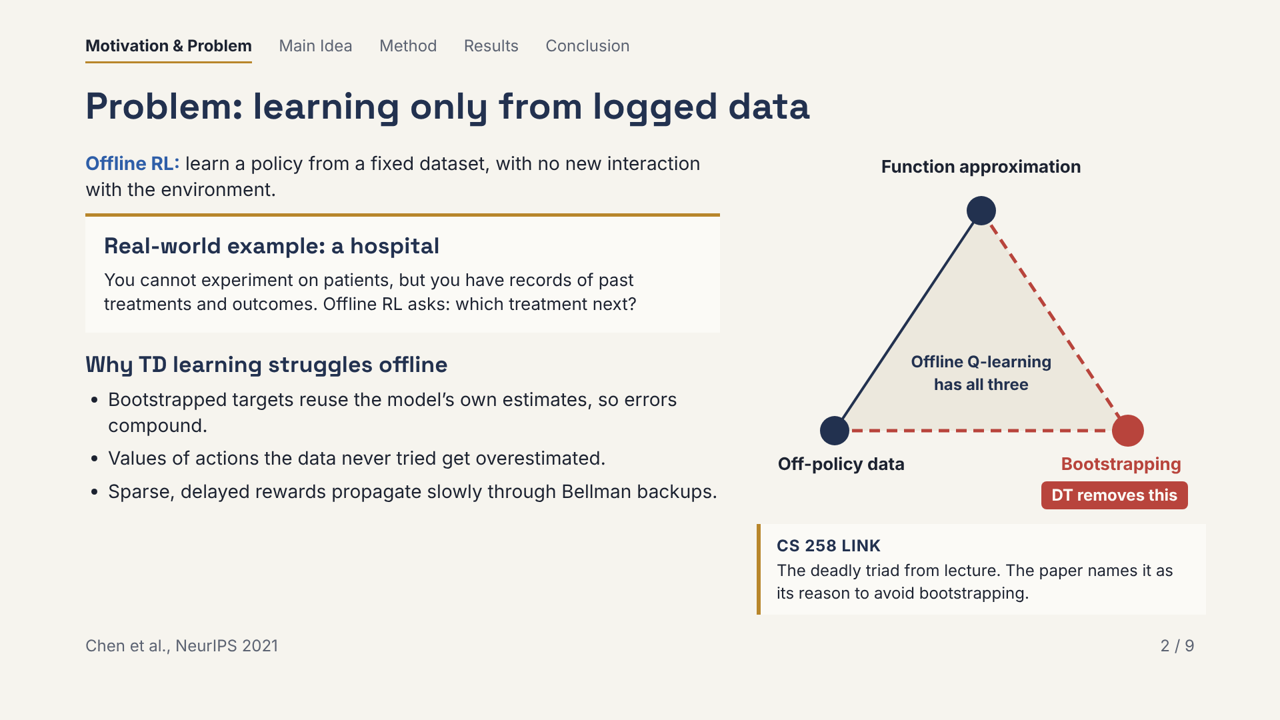
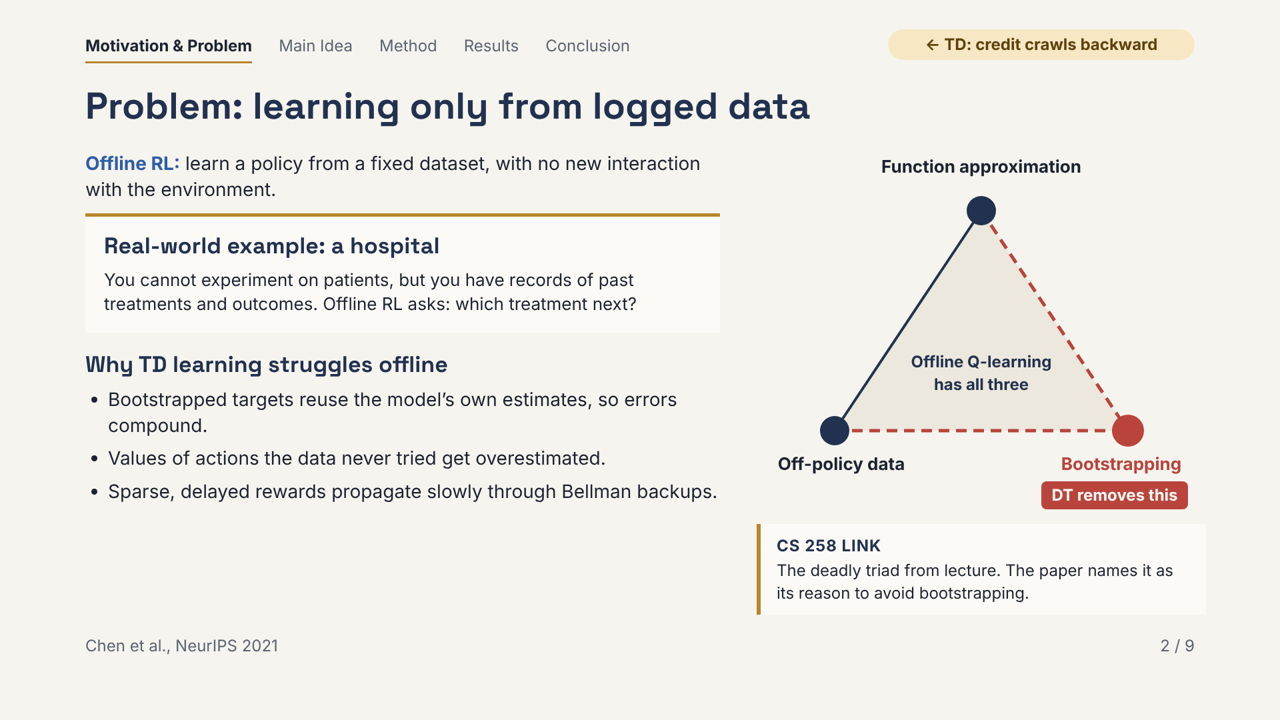
Add backward/forward thread, lineage backup slide, BACKGROUND.md; refresh screenshots

Changed region(s): [[0.6875, 0.0306, 0.9375, 0.0917]]

diff --git a/deck/slides/lineage.html b/deck/slides/lineage.html
@@ -1,0 +1,28 @@
+<section id="lineage" data-transition="fade">
+<div class="prog"><p class="st">Motivation &amp; Problem</p><p class="st">Main Idea</p><p class="st">Method</p><p class="st">Results</p><p class="st">Conclusion</p><p class="st on">Backup: Lineage</p></div>
+<h2 class="rise">Lineage: looking back, looking forward</h2>
+<div class="lin">
+<div class="lcol">
+<p class="lhead rise d1">← Looking back</p>
+<p class="li rise d6"><b>1989 ALVINN:</b> behavior cloning, imitate logged actions</p>
+<p class="li rise d5"><b>2017 Hindsight Experience Replay:</b> relabel data with what was actually achieved</p>
+<p class="li rise d4"><b>2017–20 Transformer, GPT:</b> causal next-token prediction, prompting</p>
+<p class="li rise d3"><b>2019 Upside-Down RL, Reward-Conditioned Policies:</b> command a policy with a desired return</p>
+<p class="li rise d2"><b>2019–20 BCQ, BEAR, CQL:</b> offline TD with constraints or pessimism</p>
+</div>
+<div class="hub pop d1">
+<p class="a">Decision Transformer</p>
+<p class="b">NeurIPS 2021</p>
+</div>
+<div class="lcol">
+<p class="lhead rise d1" style="text-align:right;">Looking forward →</p>
+<p class="li f rise d2"><b>2021 Trajectory Transformer:</b> concurrent; models rewards too, plans with beam search</p>
+<p class="li f rise d3"><b>2021 RvS:</b> a tuned MLP with return conditioning often matches DT</p>
+<p class="li f rise d4"><b>2022 Online DT, Multi-Game DT:</b> online fine-tuning; one model for 41 Atari games</p>
+<p class="li f rise d5"><b>2022 Brandfonbrener et al.; Paster et al.:</b> fails to stitch; misled by luck</p>
+<p class="li f rise d6"><b>2023 Q-learning DT:</b> relabels R̂ with learned Q-values; a backward pass returns, to stitch</p>
+</div>
+</div>
+<div class="foot"><p>Backup slide for Q&amp;A</p><p>Backup</p></div>
+<aside>Backup slide for Q&amp;A, not part of the 8 minutes. Left, looking back: behavior cloning, hindsight relabeling, the GPT stack, and the direct ancestors, Upside-Down RL and reward-conditioned policies, which already commanded a policy with a desired return. Also the offline TD methods DT is compared against. Right, looking forward: Trajectory Transformer was concurrent and plans with beam search. RvS showed the transformer isn't essential. Online DT and Multi-Game DT extended it. Brandfonbrener et al. and Paster et al. formalized the limits: no stitching, and stochastic environments reward luck. Q-learning DT patches stitching by relabeling return-to-go with learned Q-values, which brings a learned backward pass back. Elastic DT, also 2023, tackles stitching differently, by adapting how much history the model sees.</aside>
+</section>

diff --git a/deck/slides/motivation.html b/deck/slides/motivation.html
@@ -1,5 +1,6 @@
 <section id="motivation" data-transition="fade">
 <div class="prog"><p class="st on">Motivation &amp; Problem</p><p class="st">Main Idea</p><p class="st">Method</p><p class="st">Results</p><p class="st">Conclusion</p></div>
+<p class="dir back fadein d5">← TD: credit crawls backward</p>
 <h2 class="rise">Problem: learning only from logged data</h2>
 <div class="cols">
 <div class="colL">
@@ -39,5 +40,5 @@
 </div>
 </div>
 <div class="foot"><p>Chen et al., NeurIPS 2021</p><p>2 / 9</p></div>
-<aside>About 1 minute. "Offline RL means learning a policy only from a fixed log, with no new interaction. A hospital is the clearest case: you can't experiment on patients, but you do have records of past treatments and outcomes. Standard TD methods struggle here: they bootstrap, training value estimates on their own estimates, so errors compound; they overrate actions the data never tried; and sparse, delayed rewards travel slowly through Bellman backups. In lecture terms, offline Q-learning has all three parts of the deadly triad: function approximation, bootstrapping and off-policy data. The paper explicitly avoids bootstrapping for that reason." Note: the hospital is an illustrative scenario; the paper itself does not run medical experiments.</aside>
+<aside>About 1 minute. "Offline RL means learning a policy only from a fixed log, with no new interaction. A hospital is the clearest case: you can't experiment on patients, but you do have records of past treatments and outcomes. Standard TD methods struggle here: they bootstrap, training value estimates on their own estimates, so errors compound; they overrate actions the data never tried; and sparse, delayed rewards travel slowly through Bellman backups. In lecture terms, offline Q-learning has all three parts of the deadly triad: function approximation, bootstrapping and off-policy data. The paper explicitly avoids bootstrapping for that reason. Keep one picture in mind for the talk: in TD learning, credit crawls backward, one backup at a time." Note: the hospital is an illustrative scenario; the paper itself does not run medical experiments.</aside>
 </section>

diff --git a/deck/slides/credit.html b/deck/slides/credit.html
@@ -1,5 +1,6 @@
 <section id="credit" data-transition="fade">
 <div class="prog"><p class="st">Motivation &amp; Problem</p><p class="st">Main Idea</p><p class="st">Method</p><p class="st on">Results</p><p class="st">Conclusion</p></div>
+<p class="dir back fadein d5">← Long credit, no backups</p>
 <h2 class="rise">Results: long-term credit assignment</h2>
 <div class="fadein d1" style="position:relative;width:1664px;height:150px;">
 <div style="position:absolute;left:0px;top:0px;width:500px;height:146px;background:#F7E7C4;border:2px solid #B8862B;border-radius:12px;"></div>
@@ -37,5 +38,5 @@
 </div>
 <p class="rise d6" style="margin-top:22px;"><b>Takeaway:</b> with sparse, delayed reward, DT keeps working while CQL collapses.</p>
 <div class="foot"><p>Source: Chen et al. (2021), Tables 6 and 7. %BC = BC on successful episodes only.</p><p>8 / 9</p></div>
-<aside>About 50 seconds. "Key-to-Door tests credit assignment: you must pick up a key in the first room to get a reward in the third. Trained only on random trajectories, DT succeeds 72% of the time with 1K trajectories and 95% with 10K, while CQL stays around 13%. Percent-BC, which clones only the successful episodes, does about as well, which is fair to mention. When all Hopper reward is moved to the end of the episode, DT barely changes and CQL collapses. The paper's attention maps show DT attending to the key pickup and the door."</aside>
+<aside>About 50 seconds. "Key-to-Door tests credit assignment: you must pick up a key in the first room to get a reward in the third. Trained only on random trajectories, DT succeeds 72% of the time with 1K trajectories and 95% with 10K, while CQL stays around 13%. Percent-BC, which clones only the successful episodes, does about as well, which is fair to mention. When all Hopper reward is moved to the end of the episode, DT barely changes and CQL collapses. This is the backward story paying off: CQL has to crawl that late reward back step by step, while DT already has it in every return-to-go token. The paper's attention maps show DT attending to the key pickup and the door."</aside>
 </section>

diff --git a/deck/slides/tokens.html b/deck/slides/tokens.html
@@ -1,5 +1,6 @@
 <section id="tokens" data-transition="fade">
 <div class="prog"><p class="st">Motivation &amp; Problem</p><p class="st">Main Idea</p><p class="st on">Method</p><p class="st">Results</p><p class="st">Conclusion</p></div>
+<p class="dir back fadein d5">← Computed backward, once</p>
 <h2 class="rise">Method: a trajectory as a sequence of tokens</h2>
 <div class="row" style="gap:12px;margin-bottom:44px;">
 <p class="tok tR pop d1">R̂₁</p><p class="tok tS pop d1">s₁</p><p class="tok tA pop d1">a₁</p>
@@ -35,5 +36,5 @@
 </div>
 </div>
 <div class="foot"><p>Chen et al., NeurIPS 2021</p><p>4 / 9</p></div>
-<aside>About 50 seconds. "Each timestep becomes three tokens: return-to-go, state, action. Return-to-go is the reward still to come. In this toy episode the rewards are 1, 0 and 2, so working backward from the end, return-to-go is 2, then 2, then 3. Connecting to class: this is the Monte Carlo return G-t with gamma equal to 1; the paper deliberately avoids discounting. Feeding future return instead of past reward is what lets us prompt the model with a goal." Index note if asked: the paper's R̂ₜ includes rₜ itself; Sutton and Barto's Gₜ starts at rₜ₊₁. Same idea, shifted index.</aside>
+<aside>About 50 seconds. "Each timestep becomes three tokens: return-to-go, state, action. Return-to-go is the reward still to come. In this toy episode the rewards are 1, 0 and 2, so working backward from the end, return-to-go is 2, then 2, then 3. Connecting to class: this is the Monte Carlo return G-t with gamma equal to 1; the paper deliberately avoids discounting. Feeding future return instead of past reward is what lets us prompt the model with a goal. Compare with TD: the backward pass still happens, but once, exactly, by summing rewards in hindsight, not learned through backups." Index note if asked: the paper's R̂ₜ includes rₜ itself; Sutton and Barto's Gₜ starts at rₜ₊₁. Same idea, shifted index.</aside>
 </section>

diff --git a/deck/slides/model.html b/deck/slides/model.html
@@ -1,5 +1,6 @@
 <section id="model" data-transition="fade">
 <div class="prog"><p class="st">Motivation &amp; Problem</p><p class="st">Main Idea</p><p class="st on">Method</p><p class="st">Results</p><p class="st">Conclusion</p></div>
+<p class="dir fwd fadein d5">Looks back, predicts forward →</p>
 <h2 class="rise">Method: architecture and training</h2>
 <div class="cols">
 <div class="colW" style="width:760px;">
@@ -39,5 +40,5 @@
 </div>
 </div>
 <div class="foot"><p>Chen et al., NeurIPS 2021</p><p>5 / 9</p></div>
-<aside>About 1 minute. "The model takes the last K timesteps, so 3K tokens. Each token type gets its own linear embedding, a conv encoder for Atari frames, plus a learned timestep embedding. A GPT with a causal mask processes them, and the output at each state token predicts the action. The loss is just prediction error on the logged action. There is no Bellman update anywhere. In course terms this is behavior cloning, conditioned on return, rather than Q-learning or actor-critic." Details if asked: K = 30 on Atari except Pong, which uses 50; K = 20 on the Gym tasks.</aside>
+<aside>About 1 minute. "The model takes the last K timesteps, so 3K tokens. Each token type gets its own linear embedding, a conv encoder for Atari frames, plus a learned timestep embedding. A GPT with a causal mask processes them, and the output at each state token predicts the action. The loss is just prediction error on the logged action. There is no Bellman update anywhere. In course terms this is behavior cloning, conditioned on return, rather than Q-learning or actor-critic. The causal mask means it only looks back at history and only predicts forward." Details if asked: K = 30 on Atari except Pong, which uses 50; K = 20 on the Gym tasks.</aside>
 </section>

diff --git a/deck/slides/conclusion.html b/deck/slides/conclusion.html
@@ -20,7 +20,8 @@
 </ul>
 </div>
 </div>
+<p class="thread rise d4"><b>The thread:</b> credit is computed backward once, in hindsight; actions are generated forward. But that backward pass stays inside each trajectory, which is why DT can’t stitch.</p>
 <p class="q rise d5">Questions?</p>
 <div class="foot"><p>Chen et al., NeurIPS 2021</p><p>9 / 9</p></div>
-<aside>About 50 seconds, then Q&amp;A. "To wrap up: offline RL can be framed as sequence prediction, the return works as a prompt, and the approach is especially strong when rewards are sparse or delayed. Limits: you pick the target return by hand; a single return target fits stochastic environments poorly, and the authors point to return distributions as future work; it trails CQL on some games like Qbert; and later papers question how well it combines pieces of sub-optimal trajectories. Thank you, happy to take questions."</aside>
+<aside>About 50 seconds, then Q&amp;A. "To wrap up: offline RL can be framed as sequence prediction, the return works as a prompt, and the approach is especially strong when rewards are sparse or delayed. Limits: you pick the target return by hand; a single return target fits stochastic environments poorly, and the authors point to return distributions as future work; it trails CQL on some games like Qbert; and later papers question how well it combines pieces of sub-optimal trajectories. The one-line thread: credit is computed backward once, in hindsight, and actions are generated forward. Because that backward pass never crosses between trajectories, DT can't stitch. Thank you, happy to take questions."</aside>
 </section>

diff --git a/deck/deck.css b/deck/deck.css
@@ -23,6 +23,22 @@ section li { margin-bottom: 10px; }
 .prog .st { font-size: 24px; color: var(--muted); margin: 0; padding-bottom: 6px; border-bottom: 3px solid transparent; }
 .prog .on { color: var(--ink); font-weight: 700; border-bottom-color: var(--gold); }
 
+/* the backward / forward thread */
+.dir { position: absolute; left: 1332px; top: 44px; width: 460px; text-align: center; font-size: 24px; font-weight: 700; border-radius: 24px; padding: 6px 0; margin: 0; }
+.dir.back { background: #F7E7C4; color: #5E420C; }
+.dir.fwd { background: #DCE6F5; color: #22314F; }
+.thread { font-size: 28px; border-left: 6px solid var(--blue); padding: 8px 0 8px 22px; margin: 28px 0 0 0; }
+
+/* lineage timeline */
+.lin { display: flex; gap: 40px; align-items: center; }
+.lcol { flex: 1; display: flex; flex-direction: column; gap: 14px; }
+.lhead { font-family: 'Space Grotesk', Arial, sans-serif; font-size: 30px; font-weight: 700; color: var(--navy); margin: 0 0 4px 0; }
+.li { background: #FBFAF6; padding: 10px 18px; border-left: 6px solid var(--gold); margin: 0; font-size: 24px; line-height: 1.35; }
+.li.f { border-left-color: var(--blue); }
+.hub { width: 300px; flex: none; background: var(--navy); color: var(--paper); border-radius: 16px; padding: 28px 0; text-align: center; }
+.hub .a { font-family: 'Space Grotesk', Arial, sans-serif; font-size: 34px; font-weight: 700; margin: 0; }
+.hub .b { font-size: 24px; margin: 6px 0 0 0; }
+
 .foot { position: absolute; left: 128px; top: 952px; width: 1664px; display: flex; justify-content: space-between; }
 .foot p { font-size: 24px; color: var(--muted); margin: 0; }
 

diff --git a/deck/slides/inference.html b/deck/slides/inference.html
@@ -1,5 +1,6 @@
 <section id="inference" data-transition="fade">
 <div class="prog"><p class="st">Motivation &amp; Problem</p><p class="st">Main Idea</p><p class="st on">Method</p><p class="st">Results</p><p class="st">Conclusion</p></div>
+<p class="dir fwd fadein d5">Acts forward; R̂ counts down →</p>
 <h2 class="rise">Method: acting at test time</h2>
 <div class="cols">
 <div style="position:relative;width:740px;height:540px;flex:none;">

diff --git a/BACKGROUND.md b/BACKGROUND.md
@@ -1,0 +1,84 @@
+# Background: Decision Transformer, backward and forward
+
+Chen et al., *Decision Transformer: Reinforcement Learning via Sequence Modeling*, NeurIPS 2021.
+
+One idea runs through the whole deck: **credit flows backward, actions flow forward.** Classical RL learns the backward flow; Decision Transformer (DT) computes it once and spends all its learning on the forward flow. The lineage fits the same frame, with what came before and what came after.
+
+**Analogy.** You learn chess only from recorded games, each tagged with the player's final score. TD learning tries to work out the value of every position by passing credit back through the games, move by move. DT sums each game's score once, labels every move with "score still to come," and learns "in this position, a player headed for score X played this." At test time you ask for a grandmaster's score and it imitates such players, move by move, forward.
+
+## Backward: the problem (slides 2 and 8)
+
+Offline RL learns a policy from a fixed dataset with no new interaction. TD methods such as Q-learning learn the backward flow through Bellman backups. Each update pulls value back by one step, using the model's own estimates as targets. Offline, this goes wrong in three ways:
+
+- **Errors compound** because targets are bootstrapped.
+- **Untried actions look too good**, because the max in the target favors actions the data never covered.
+- **Sparse, delayed rewards travel slowly**, one backup at a time.
+
+In CS 258 terms, offline Q-learning has all three legs of the deadly triad: function approximation, bootstrapping and off-policy data. The paper names the triad as its reason to avoid bootstrapping. Earlier offline methods (BCQ, BEAR, BRAC, CQL) keep the TD backward pass and add constraints or pessimism to make it safe.
+
+## Backward, done once: return-to-go (slide 4)
+
+DT still needs credit to reach early steps, but it gets it without learning:
+
+R̂ₜ = rₜ + rₜ₊₁ + … + r_T
+
+This is computed by summing rewards backward from the end of each logged trajectory. It is exact for that trajectory, involves no estimates, and is undiscounted. It is the Monte Carlo return Gₜ from lecture with γ = 1. One indexing difference: R̂ₜ includes rₜ, while Sutton and Barto's Gₜ starts at rₜ₊₁.
+
+Why this works is **hindsight relabeling**. Every trajectory is a correct demonstration of how to achieve *its own* return, so mixed-quality data becomes correctly labeled training data.
+
+## Forward: the model (slides 5 and 6)
+
+- **Tokens.** The last K timesteps form a sequence (R̂, s, a, R̂, s, a, …), so 3K tokens. K is 20 on Gym and 30 on Atari (50 on Pong).
+- **Model.** A small GPT-style causal transformer: one embedding per token type, a conv encoder for Atari frames, and a learned timestep embedding. The causal mask means each token looks back at history and the model predicts forward.
+- **Training.** Predict the logged action from the state token. Cross-entropy for discrete actions, MSE for continuous. There is no Bellman update anywhere: this is behavior cloning conditioned on return.
+- **Acting.** Pick a target return. The model acts, the environment returns a reward, and the target is reduced by that reward. Repeat. The return-to-go counts down as the episode runs forward, like a GPS's remaining distance.
+
+## Results (slides 7 and 8)
+
+- **Atari (1% of DQN-replay data).** DT is competitive with CQL: ahead on Breakout and Seaquest, close on Pong, clearly behind on Qbert.
+- **D4RL Gym.** DT has the best average among the compared methods: 74.7 vs 63.9 for CQL.
+- **Percentile BC.** BC on only the top slice of trajectories nearly matches DT on large D4RL datasets. DT's advantage is clearest in low-data settings and on Atari. The paper reports this itself.
+- **Credit assignment, where the backward story pays off.**
+  - Key-to-Door: about 72% success from 1K random trajectories, against about 13% for CQL.
+  - Hopper with all reward moved to the end: DT barely changes while CQL collapses. CQL must crawl that late reward back step by step; DT already has it in every return-to-go token.
+- **Context matters.** K = 1 is much worse on Atari.
+
+## Where the backward pass falls short: limitations (slide 9)
+
+DT's backward pass stays inside each trajectory, so it cannot **stitch**. If the data contains trips A→B and B→C but never A→C, dynamic programming can join them at B, because its backward pass crosses trajectories through shared states. DT's return-to-go at B only reflects the trip it came from.
+
+Other limitations:
+
+- **Stochastic environments.** A high return may have been luck, and conditioning on it imitates the luck.
+- **Hand-picked target.** The target return is set per task.
+
+## Lineage (backup slide 10)
+
+### Looking back
+
+| Year | Work | What DT inherits |
+|---|---|---|
+| 1989 | ALVINN (Pomerleau) | Behavior cloning: imitate logged actions |
+| 2017 | Hindsight Experience Replay (Andrychowicz et al.) | Relabel data with what was actually achieved (a conceptual ancestor) |
+| 2017–20 | Transformer; GPT, GPT-2, GPT-3 | Causal next-token prediction and prompting |
+| 2019 | Upside-Down RL (Schmidhuber; Srivastava et al.) | Direct ancestor: command a policy with a desired return and horizon |
+| 2019 | Reward-Conditioned Policies (Kumar, Peng, Levine) | Same idea with an MLP, trained by supervised learning |
+| 2019–20 | BCQ, BEAR, BRAC, AWR, CQL | The offline TD baselines DT is compared against |
+| 2020 | D4RL (Fu et al.); DQN-replay (Agarwal et al.) | The benchmarks |
+
+### Looking forward
+
+| Year | Work | Relation to DT |
+|---|---|---|
+| 2021 | Trajectory Transformer (Janner, Li, Levine) | Concurrent sibling: also models rewards and plans with beam search |
+| 2021 | RvS (Emmons et al.) | A tuned MLP with return or goal conditioning often matches DT; the transformer isn't essential |
+| 2022 | Online DT (Zheng, Zhang, Grover) | Fine-tunes DT with online interaction |
+| 2022 | Multi-Game DT (Lee et al.) | One model for 41 Atari games |
+| 2022 | Brandfonbrener et al. | Return-conditioned SL needs near-deterministic dynamics and good coverage; it can't stitch |
+| 2022 | Paster et al., "You Can't Count on Luck" | Stochastic environments mislead return conditioning |
+| 2023 | Q-learning DT (Yamagata et al.) | Relabels return-to-go with learned Q-values: **a learned backward pass returns**, to enable stitching |
+| 2023 | Elastic DT (Wu et al.) | Addresses stitching by adapting how much history the model sees |
+
+**The arc.** DT removed the learned backward pass and showed how far a forward sequence model could go. Follow-up work found the gains come mainly from return conditioning plus supervised learning, and that the missing backward pass is exactly what stitching needs. The strongest descendants bring some of it back.
+
+This lineage covers work through 2023.

diff --git a/README.md b/README.md
@@ -3,14 +3,17 @@
 CS 258 / EE 227 (Reinforcement Learning, UCR) paper presentation:
 **Decision Transformer: Reinforcement Learning via Sequence Modeling** (Chen et al., NeurIPS 2021).
 
-9 slides, about 8 minutes, following the course structure:
+9 slides, about 8 minutes, plus one backup slide for Q&A, following the course structure:
 Motivation & Problem → Main Idea → Method → Results → Conclusion.
 
-![Overview of all 9 slides](screenshots/overview.png)
+**Thread through the talk:** credit flows *backward*, actions flow *forward*. TD learns the backward pass through Bellman backups. DT computes it once, in hindsight, as return-to-go, and learns only the forward pass. Small ← / → tags on the slides mark each side. [BACKGROUND.md](BACKGROUND.md) has the full paper overview and lineage in the same frame.
+
+![Overview of all slides](screenshots/overview.png)
 
 ## Contents
 
 - `deck/` — the slide source (one HTML section per slide, shared `deck.css`, `deck.json` index). Speaker notes with timings are in each slide's `<aside>`.
+- `BACKGROUND.md` — paper overview and lineage (looking back / looking forward).
 - `screenshots/` — rendered previews.
 
 ## Timing
@@ -25,7 +28,8 @@ Motivation & Problem → Main Idea → Method → Results → Conclusion.
 | 6 | Test-time loop | 0:50 |
 | 7 | Benchmark results | 1:10 |
 | 8 | Credit assignment results | 0:50 |
-| 9 | Conclusion & limitations | 0:50 |
-|   | **Total** | **8:00** |
+| 9 | Conclusion, limitations & the backward/forward thread | 0:50 |
+|   | **Total** | **≈8:00–8:15** |
+| 10 | Backup: lineage, looking back / forward | Q&A only |
 
 All numbers are from Chen et al. (2021), Tables 1, 2, 6 and 7. The hospital scenario is illustrative; the paper does not evaluate it.
